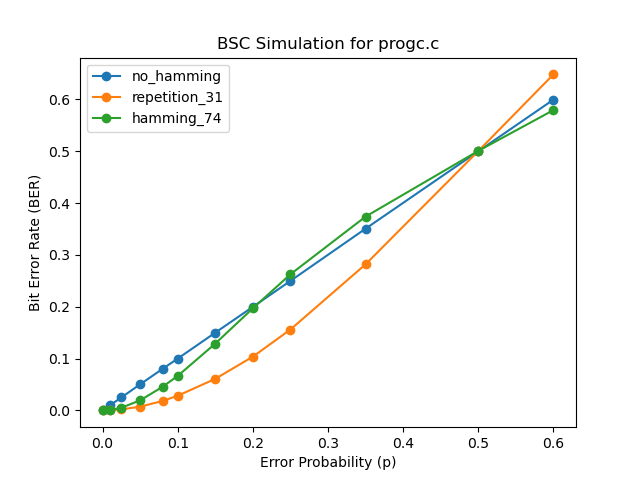
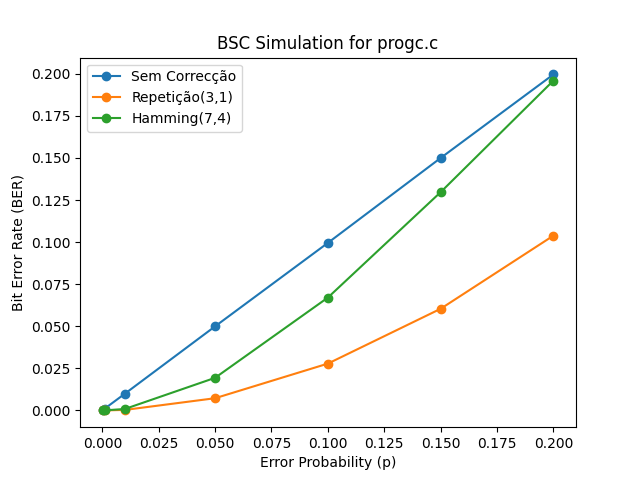
changed graphics

diff --git a/python/exercicio_1.py b/python/exercicio_1.py
@@ -17,21 +17,19 @@ files_to_be_tested = [
     "fibonacci.kt", 
     "maximumSubarray.kt", 
     "person.java", 
-    # "progc.c", 
+    "progc.c",
     "view.kt", 
 ]
 
 P_VALUES = [
+    0.0001,
+    0.001,
     0.01,
     0.05,
-    0.08,
     0.1,
     0.15,
     0.2,
-    0.25,
-    0.35,
-    0.5,
-    0.6
+
 ]
 
 NUM_ITERATIONS = 5
